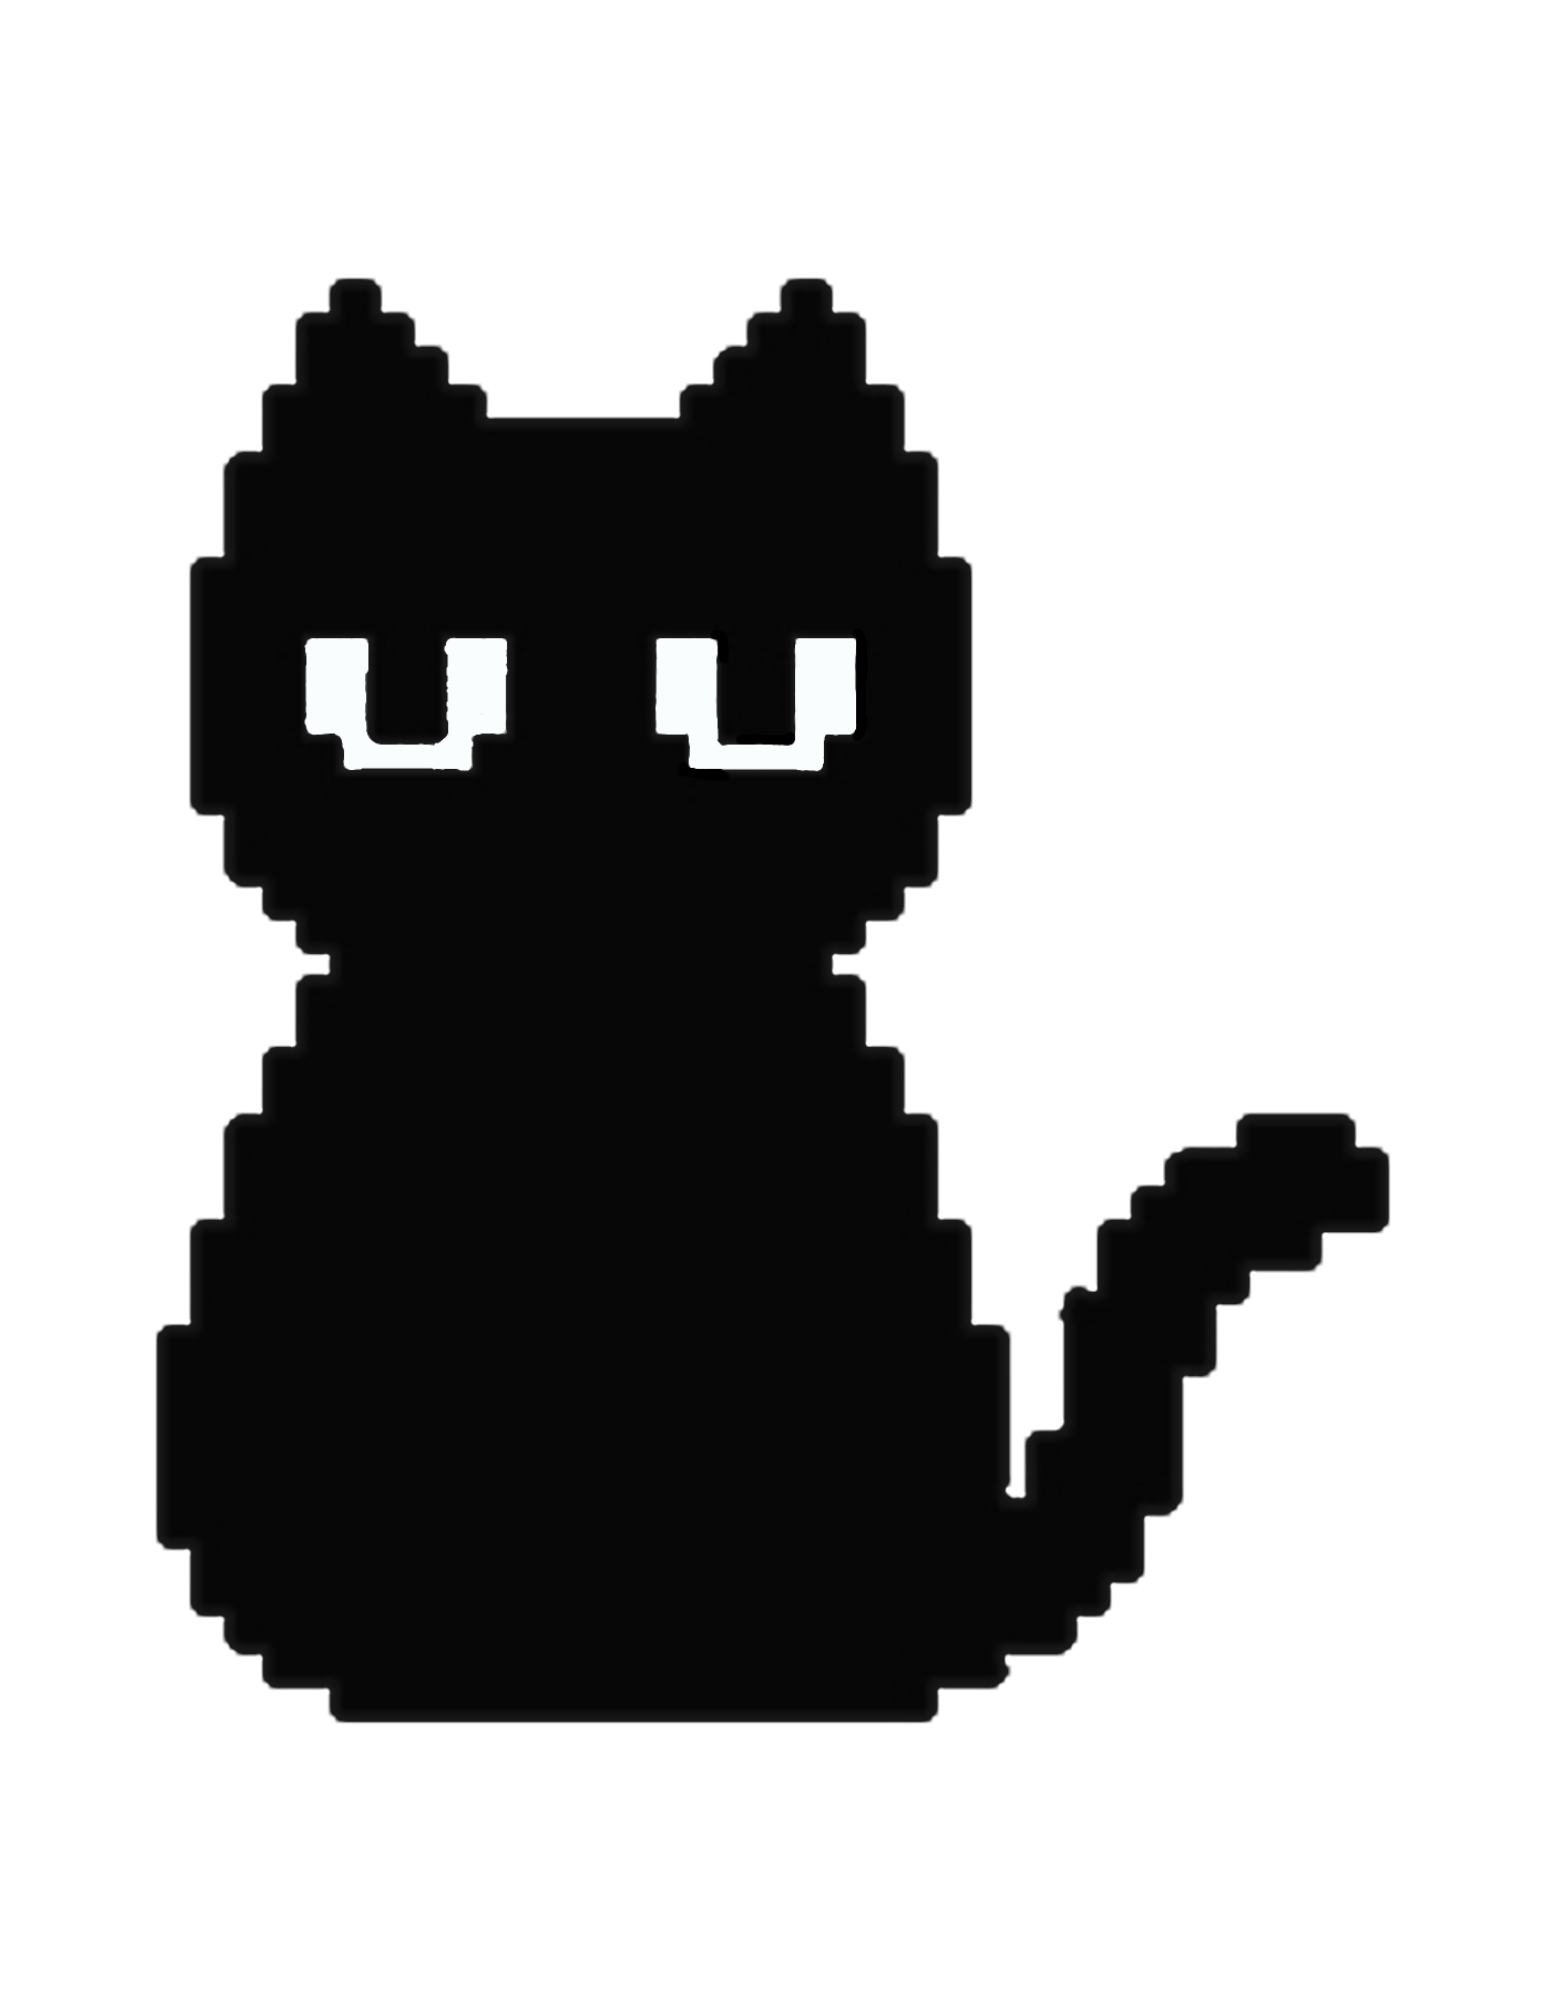
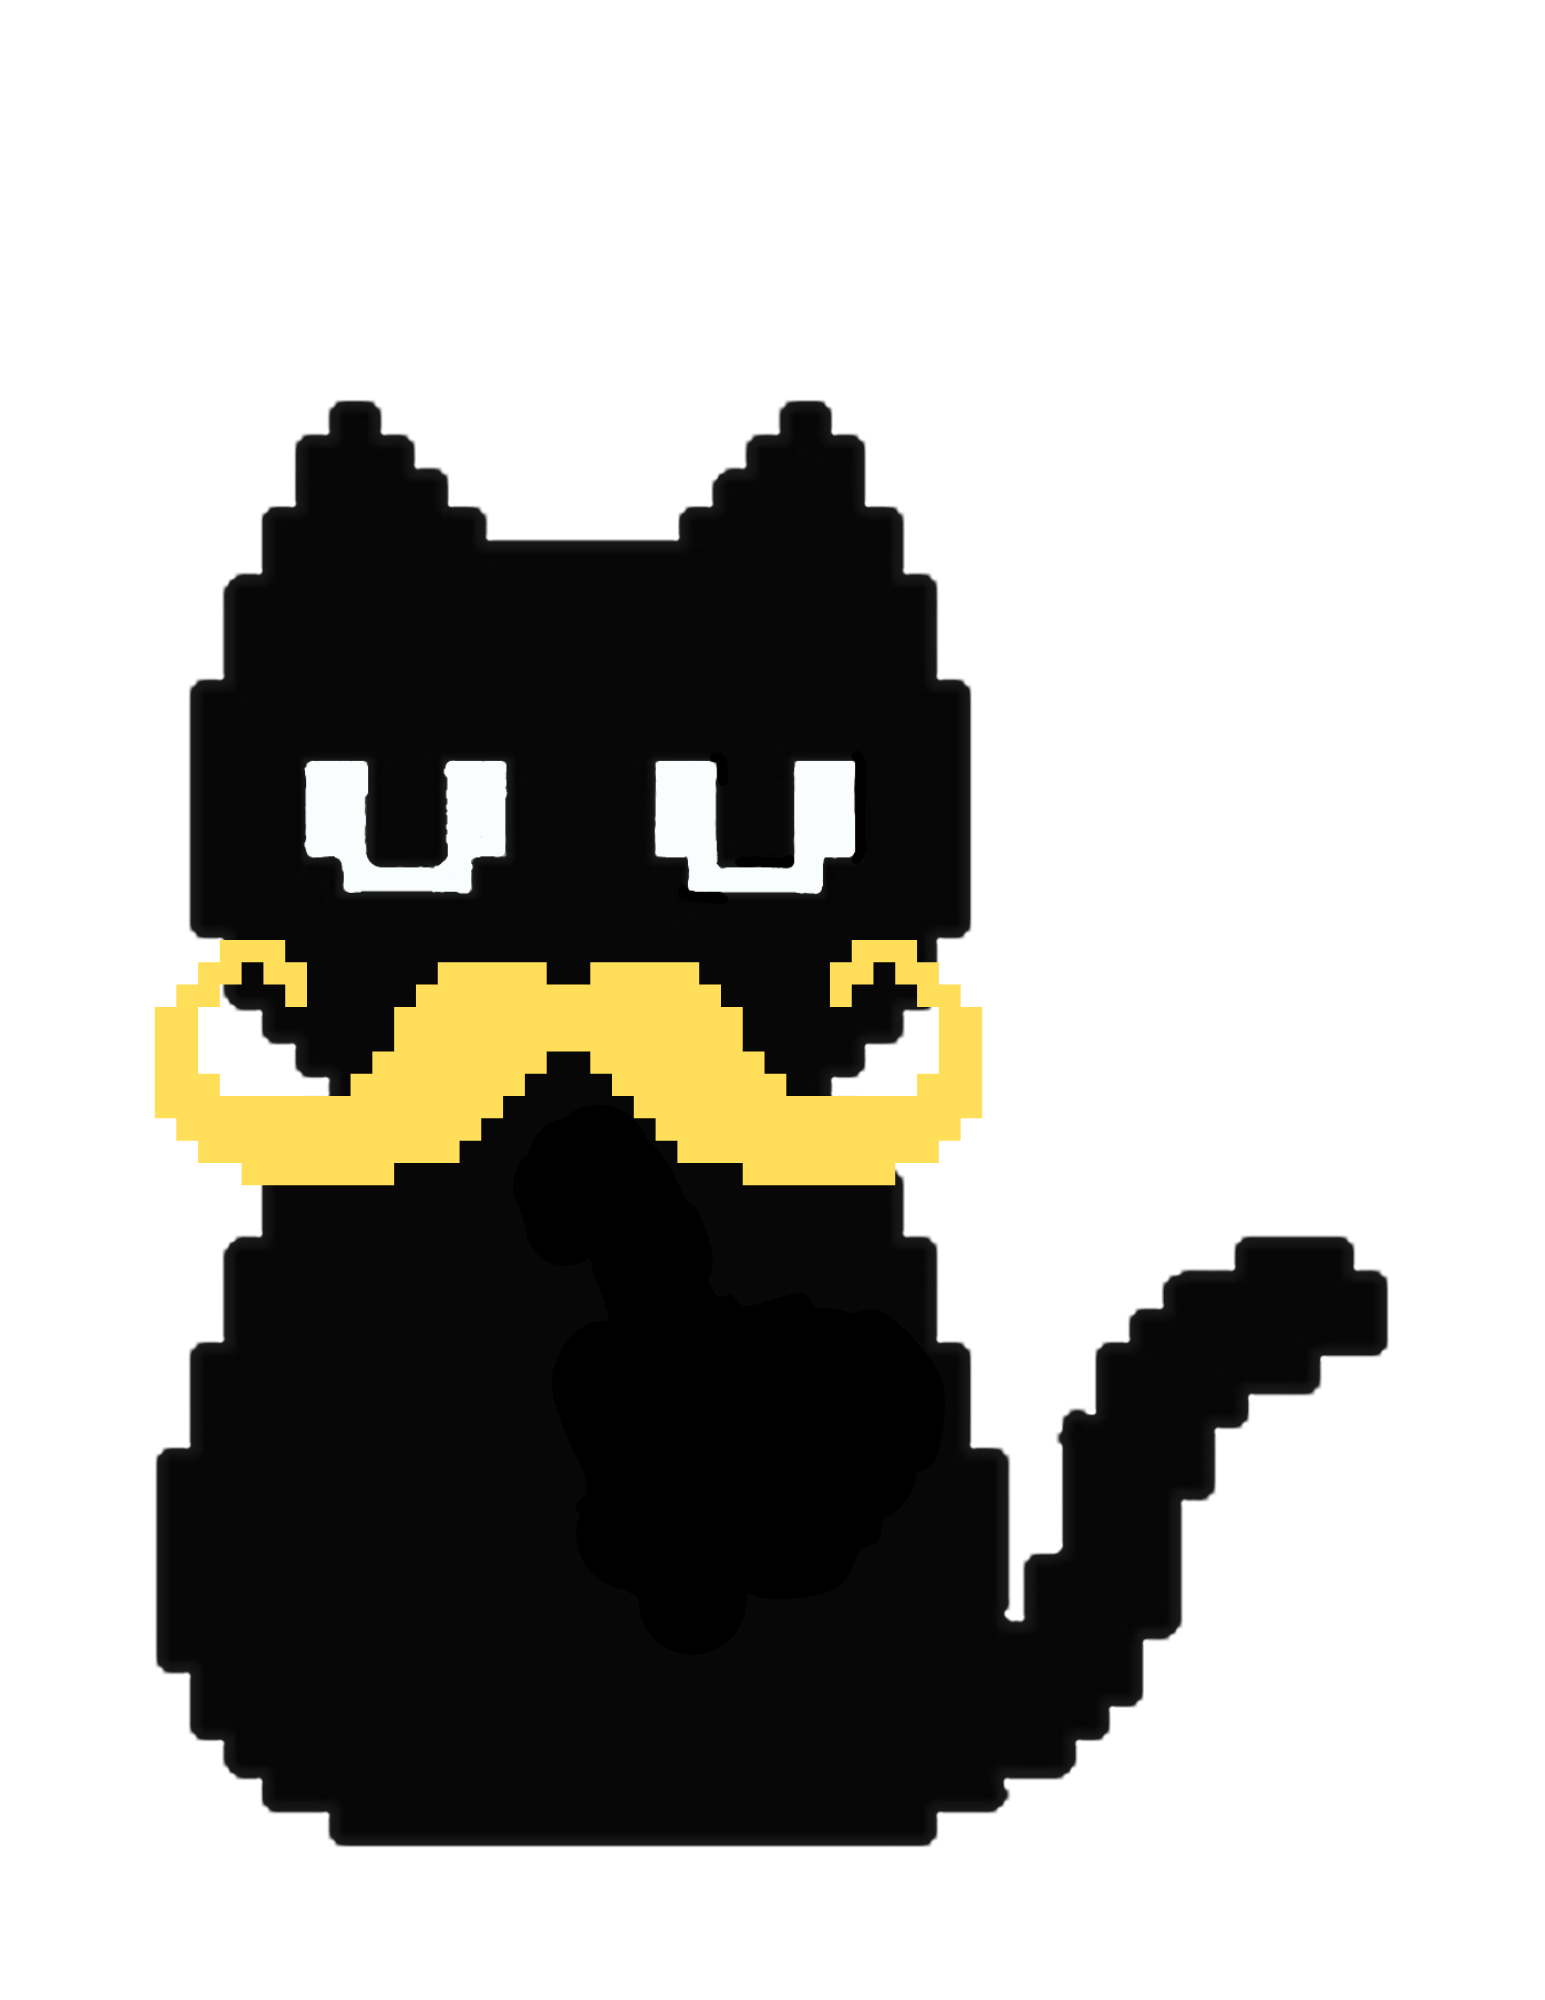
Improved rainbow bridge function again && Vitals can't go below 0 && Exercise fully developed

Changed region(s): [[0.0932, 0.31, 0.901, 0.93], [0.1243, 0.124, 0.6524, 0.341]]

diff --git a/js/script.js b/js/script.js
@@ -70,7 +70,7 @@ setInterval(function(){
     boredtarget.innerHTML = blackKitty.boredom;
     const chonkLog = document.getElementById("chonktarget");
     chonktarget.innerHTML = blackKitty.chonkiness;
-}, 1000)
+}, 50)
 // Increase your pet's age every x minutes
 agingInterval = setInterval(function() {
     blackKitty.growUp();
@@ -81,30 +81,38 @@ metricInterval = setInterval(function() {
     blackKitty.getSleepy();
     blackKitty.getBored();
     blackKitty.getChonky();
-}, 1000)
+}, 4000)
 const feedButton = document.querySelector("#feed");
 feedButton.addEventListener("click", feed);
 function feed() {
-    blackKitty.hunger-=1;
-    return blackKitty.hunger;
+    if (blackKitty.hunger > 0) {
+        blackKitty.hunger-=1;
+        return blackKitty.hunger;
+    }
 }
 const sleepButton = document.querySelector("#sleep");
 sleepButton.addEventListener("click", sleep); 
 function sleep() {
-    blackKitty.sleepiness-=1;
-    return blackKitty.sleepiness;
+    if (blackKitty.sleepiness > 0) {
+        blackKitty.sleepiness-=1;
+        return blackKitty.sleepiness;
+    }
 }
 const playButton = document.querySelector("#play");
 playButton.addEventListener("click", play); 
 function play() {
-    blackKitty.boredom-=1;
-    return blackKitty.boredom;
+    if (blackKitty.boredom > 0) {
+        blackKitty.boredom-=1;
+        return blackKitty.boredom;
+    }
 }
 const exerciseButton = document.querySelector("#exercise");
 exerciseButton.addEventListener("click", exercise); 
 function exercise() {
-    blackKitty.chonkiness-=1;
-    return blackKitty.chonkiness;
+    if (blackKitty.chonkiness > 0) {
+        blackKitty.chonkiness-=1;
+        return blackKitty.chonkiness;
+    }
 }
 let babyPic = document.getElementById("kitty");
 let bigBoyPic = document.getElementById("cat");
@@ -113,7 +121,7 @@ petMorphs = setInterval(function() {
     morph();
 }, 1000);
 function morph() {
-    if (blackKitty.age > 5) {
+    if (blackKitty.age >= 5 && blackKitty.hunger < 10 && blackKitty.sleepiness < 10 && blackKitty.boredom < 10 && blackKitty.chonkiness < 10) {
         babyPic.style.visibility = "hidden";
         bigBoyPic.style.visibility = "visible";
     }
@@ -129,9 +137,16 @@ function rainbowBridge() {
         clearInterval(petDies);
         babyPic.style.visibility = "hidden";
         bigBoyPic.style.visibility = "hidden";
-        alert(nameOfPet + " has crossed the rainbow bridge :(");
+        let deadKittyPic = document.getElementById("deadkitty");
+        let deadCatPic = document.getElementById("deadcat");
+        if (blackKitty.age < 5) {
+            deadKittyPic.style.visibility = "visible";
+        } else {
+                deadCatPic.style.visibility = "visible";
+            }
+        setTimeout(function() {
+            alert(nameOfPet + " has crossed the rainbow bridge :(")}, 500);
     }
 }
 // EXTRAS
-// Have your Tamagotchi give birth to baby Tamagotchi...
 // ...with special powers (extend the class)!

diff --git a/index.html b/index.html
@@ -19,13 +19,13 @@
             <h4>Care Manual:</h4>
             <ul>
                 <li>
-                    Click the buttons to make your pet eat (om nom nom), sleep (Zzz Zzz Zzz), and play (GGWP)!
+                    Click the buttons to make your pet eat, sleep, play, and exercise!
                 </li>
                 <li>
-                    If your pet reaches age 5, they will become a sophisticated gentlepet (grow a mustache).
+                    If your pet reaches age 5, they will grow a mustache.
                 </li>
                 <li>
-                    If your pet's hunger, sleepiness, or boredom reach 10, they will have to cross the rainbow bridge.
+                    If your pet's hunger, sleepiness, boredom, or chonkiness reach 10, they will have to cross the rainbow bridge.
                 </li>
             </ul>
         </div>
@@ -35,16 +35,20 @@
             <button class="eggstyle" id="dark">Dark Mode</button>
             <img id="egg" src="./images/nada-egg.png">
             <img id="altegg" src="./images/nada-egg-alt.png">
-            <img id="kitty" src="./images/cat.png">
-            <img id="cat" src="./images/gentlecat.png">
+            <img id="kitty" src="./images/kitty.png">
+            <img id="cat" src="./images/cat.png">
+            <img id="deadkitty" src="./images/deadKitty.png">
+            <img id="deadcat" src="./images/deadCat.png">
         </div>
         <div class="actions">
+            <h4>Care Buttons:</h4>
             <button type="button" class="gameplay" id="feed"><img class="care" src="./images/eat.png"></button>
             <button type="button" class="gameplay" id="sleep"><img class = "care" src="./images/sleep.png"></button>
             <button type="button" class="gameplay" id="play"><img class = "care" src="./images/play.png"></button>
-            <button type="button" class="gameplay" id="exercise"><img class = "care" src="./images/play.png"></button>
+            <button type="button" class="gameplay" id="exercise"><img class = "care" src="./images/exercise.png"></button>
         </div>
         <div class="vitals">
+            <h4>Vitals:</h4>
             <div class="box">
                 <div>Age:</div>
                 <div id="agetarget"></div>

diff --git a/css/style.css b/css/style.css
@@ -34,12 +34,16 @@
 }
 .instructions {
     grid-area: right1;
-    padding: 20px;
+    padding: 0 20px 20px 20px;
     background-color: #ACFCD9;
 }
 h4 {
     font-family: 'Julius Sans One';
     font-weight: bolder;
+    background-color: white;
+    color: #190933;
+    text-align: center;
+    padding: 10px 0 10px 0;
 }
 ul {
     font-family: 'Julius Sans One';
@@ -52,6 +56,7 @@ ul {
 .eggstyle {
     margin-top: 10px;
     text-align: center;
+    font-family: 'Julius Sans One';
 }
 #egg {
     visibility: visible;
@@ -92,6 +97,22 @@ ul {
     left: 155px;
     animation: slide 10s infinite;
 }
+#deadcat {
+    visibility: hidden;
+    height: 125px;
+    position: absolute;
+    z-index: 3;
+    bottom: 250px;
+    left: 155px;
+}
+#deadkitty {
+    visibility: hidden;
+    height: 125px;
+    position: absolute;
+    z-index: 3;
+    bottom: 250px;
+    left: 155px;
+}
 @keyframes slide {
     from {
       transform: translateX(70px);
@@ -103,15 +124,9 @@ ul {
       transform: translateX(70px)
     }
 }
-h4 {
-    background-color: #190933;
-    color: #ACFCD9;
-    text-align: center;
-    padding: 10px 0 10px 0;
-}
 .actions {
     grid-area: right2;
-    padding: 58px;
+    padding: 0 20px 20px 20px;
     background-color: #B084CC;
     text-align: center;
 }
@@ -120,12 +135,11 @@ h4 {
 }
 .gameplay {
     margin: 0 20px 0 0;
-    border-radius: 25%;
     background-color: white;
 }
 .vitals {
     grid-area: right3;
-    padding: 20px;
+    padding: 0 20px 20px 20px;
     background-color: #5DD9C1;
     font-family: 'Julius Sans One';
     text-align: center;
